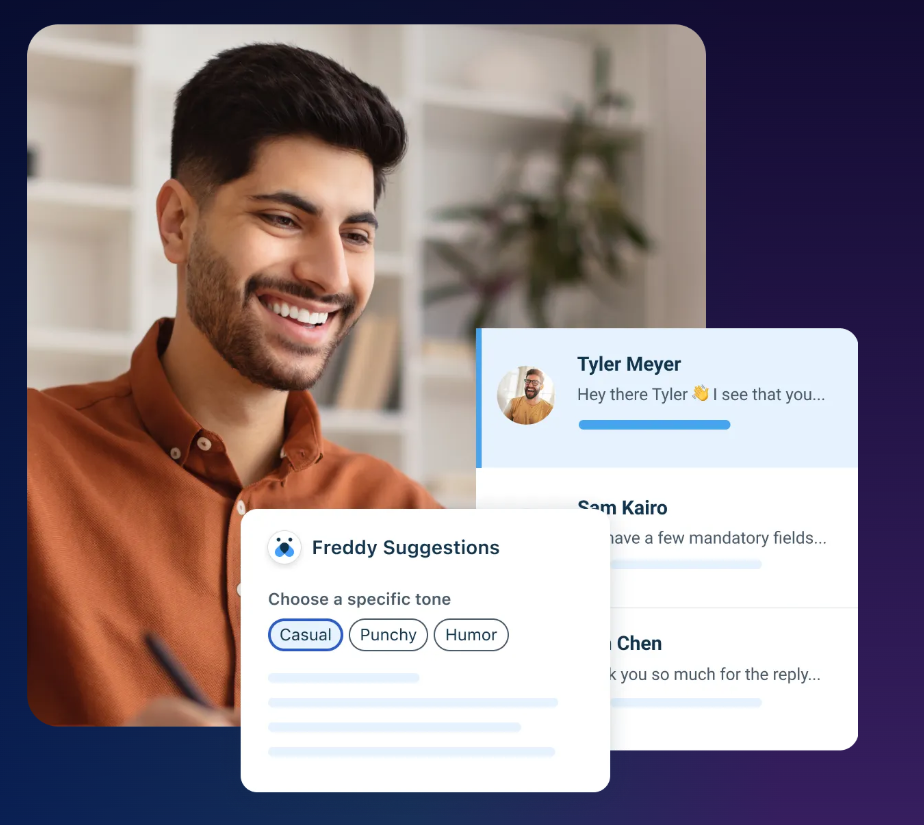
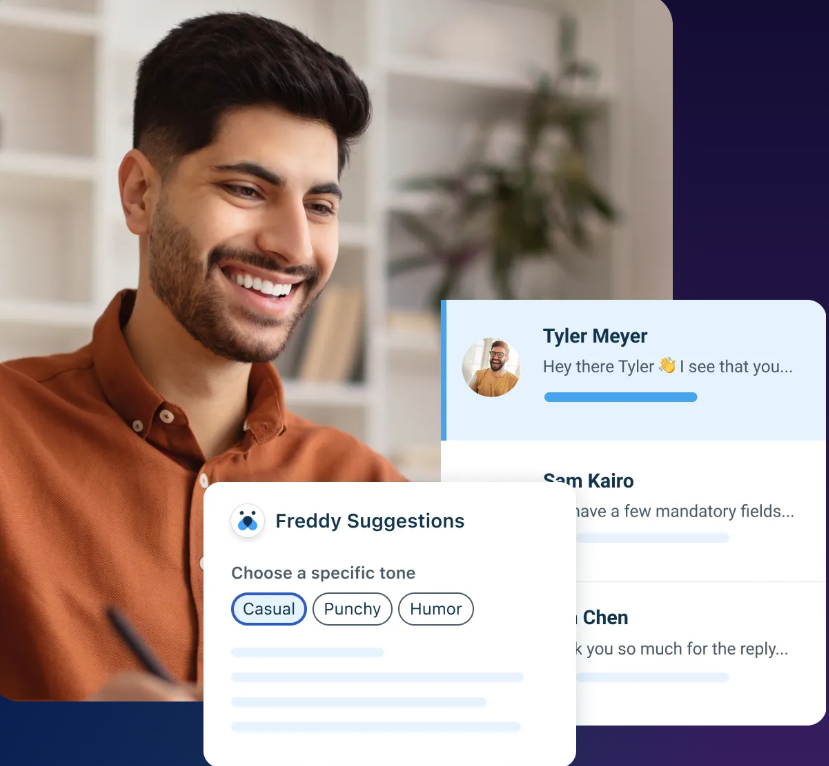
freshworks-recreate

diff --git a/styles/index.css b/styles/index.css
@@ -64,10 +64,12 @@ header {
     border: 2px solid ;
 }
 
-
+.bg-color{
+  background: linear-gradient(135deg, #0f0c29 0%, #302b63 40%, #24243e 70%, #ff5fa2 100%);
+}
 
 .content {
-    background: linear-gradient(135deg, #0f0c29 0%, #302b63 40%, #24243e 70%, #ff5fa2 100%);
+
 
     width: 100%;
     min-height: 700px;
@@ -126,10 +128,11 @@ header {
 .content img {
     max-width: 470px;
     height: auto;
+    margin-right: 10px;
 }
 
 .second-content {
-    background-color: #302b63;
+    
     text-align: center;
     padding: 0px 20px 40px 20px;
     color: white;
@@ -166,12 +169,22 @@ margin-top: 2%;
 .third-content section button {
     padding: 7px 15px;
     margin-right: 2%;
-    border-radius: 5px;
-    border: 2px solid black;
     background-color: white;
     color: black;
     font-weight: bold;
+    border-radius: 5px;
     margin-top: 2%;
+    border-image: linear-gradient(
+        45deg,
+        red,
+        orange,
+        yellow,
+        green,
+        blue,
+        indigo,
+        violet
+      ) 5;
+
 }
 
 .third-content section img{
@@ -199,6 +212,21 @@ margin-top: 2%;
   
   .right-solutions {
     max-width: 600px;
+  }
+  .solution-card:hover{
+     cursor: pointer;   
+    border: 3px solid transparent; /* Important for border-image to work */
+    border-image: linear-gradient(
+        45deg,
+        red,
+        orange,
+        yellow,
+        green,
+        blue,
+        indigo,
+        violet
+    ) 1;
+
   }
   
   .right-solutions h5 {
@@ -229,8 +257,13 @@ margin-top: 2%;
   .solution-card h3 {
     font-size: 18px;
     display: flex;
-    justify-content: space-between;
     align-items: center;
+  }
+
+  .solution-card i{
+    font-size: 12px;
+    margin-left: 2%;
+    margin-top: 2px;
   }
   
   .solution-card span {
@@ -313,7 +346,7 @@ margin-top: 2%;
     display: flex;
     justify-content: center;
     align-items: center;
-    margin-top: 30px;
+    padding-top: 20px;
     gap: 10px;
   }
   
@@ -350,6 +383,7 @@ margin-top: 2%;
     font-family: sans-serif;
     display: flex;
     flex-direction: row;
+    
   }
   
   .left-content {
@@ -380,6 +414,7 @@ margin-top: 2%;
     gap: 20px;
     overflow-x: auto;
     padding-bottom: 10px;
+    
   }
   
   .card {
@@ -387,11 +422,12 @@ margin-top: 2%;
     border-radius: 20px;
     padding: 20px;
     width: 500px;
+
     
   }
   
   .card-img {
-    width: 110%;
+    width: 100%;
     border-radius: 12px;
     margin-bottom: 20px;
   }
@@ -447,6 +483,20 @@ margin-top: 2%;
     width: 100%;
     height: 200px;
     margin-bottom: 5%;
+    border-bottom: 5px solid;
+        
+     
+    border-image: linear-gradient(
+        45deg,
+        red,
+        orange,
+        yellow,
+        green,
+        blue,
+        indigo,
+        violet
+    ) 1;
+
   }
 
   .last-ad h5{
@@ -495,6 +545,7 @@ margin-top: 2%;
     border-bottom: 1px solid #eee;
     padding-bottom: 10px;
     margin-bottom: 30px;
+    font-size: 13px;
   }
   
   .footer-contact a {
@@ -555,6 +606,11 @@ margin-top: 2%;
       padding: 40px 20px;
       text-align: center;
     }
+
+    
+    .content .first-content{
+      padding-top: 50px;
+    }
   
     .first-content h1 {
       font-size: 36px;
@@ -594,6 +650,7 @@ margin-top: 2%;
       height: auto;
       padding: 10px 20px;
     }
+
   
     .header-sec-1,
     .header-sec-2 {
@@ -642,7 +699,16 @@ margin-top: 2%;
   
   @media (max-width: 480px) {
     header{
-        display: none;
+        display: flex;
+        flex-direction: row;
+    }
+
+    .header-sec-1 a, .header-sec-2{
+      display: none;
+    }
+
+    .content{
+      padding-top: 95px;
     }
     .first-content h1 {
       font-size: 24px;
@@ -651,20 +717,23 @@ margin-top: 2%;
     .first-content p {
       font-size: 16px;
     }
-    .second-content-img{
-        display: none;
-    }
+.third-content img{
+  display: none;
+}
   
     .right-solutions h2 {
       font-size: 24px;
     }
   
     .trending-section {
+      
       padding: 20px 10px;
     }
   
-    .card h3 {
-      font-size: 16px;
+    .trending-section .news-cards {
+      display: flex;
+      flex-direction: column;
+    
     }
   
     .testimonial-text {
@@ -673,10 +742,11 @@ margin-top: 2%;
   
     .last-ad h5 {
       font-size: 24px;
+      margin: 1%;
     }
   
-    .last-ad p {
-      font-size: 16px;
+    .last-ad  {
+height: 250px;
     }
   
     .footer-contact {
@@ -685,6 +755,10 @@ margin-top: 2%;
   
     .header-sec-1 img {
       width: 120px;
+    }
+
+    .app-buttons{
+      display: none;
     }
   }
   

diff --git a/index.html b/index.html
@@ -33,7 +33,7 @@
             </section>
         </header>
 
-
+<section class="bg-color">
         <section class="content">
             <section class="first-content">
                 <h1>Software shouldn’t stand in the way of <span>exceptional service</span>  </h1>
@@ -46,7 +46,7 @@
             </section>
 
             <section>
-                <img src="./assests/images/content-img.png" alt="content-img" width="500px">
+                <img src="./assests/images/content-img-removebg-preview.png" alt="content-img" width="450px">
             </section>
         </section>
 
@@ -61,7 +61,7 @@
 
         </section>
 
-
+</section>
 
         <section class="third-content">
             <h1>Uncomplicated service software            </h1>
@@ -89,37 +89,37 @@
           
               <div class="solution-grid">
                 <div class="solution-card">
-                  <h3>Freshdesk ><span>&#8250;</span></h3>
+                  <h3>Freshdesk<i class="fa-solid fa-chevron-right"></i></h3>
                   <p>Scale faster with a unified, intelligent customer support platform.</p>
                 </div>
           
                 <div class="solution-card">
-                  <h3>Freshservice ><span>&#8250;</span></h3>
+                  <h3>Freshservice<i class="fa-solid fa-chevron-right"></i></h3>
                   <p>Modernize IT service and operations with an intuitive, completely integrated IT.</p>
                 </div>
           
                 <div class="solution-card">
-                  <h3>Freshchat ><span>&#8250;</span></h3>
+                  <h3>Freshchat<i class="fa-solid fa-chevron-right"></i></h3>
                   <p>Have more meaningful conversations, across every channel, with every customer.</p>
                 </div>
           
                 <div class="solution-card">
-                  <h3>Freshdesk Omni ><span>&#8250;</span></h3>
+                  <h3>Freshdesk Omni<i class="fa-solid fa-chevron-right"></i></h3>
                   <p>Get the whole package with our all-in-one solution, boosted with generative AI.</p>
                 </div>
           
                 <div class="solution-card">
-                  <h3>Freshsales ><span>&#8250;</span></h3>
+                  <h3>Freshsales<i class="fa-solid fa-chevron-right"></i></h3>
                   <p>Sell smarter and faster while leaving time-consuming tasks to automation.</p>
                 </div>
           
                 <div class="solution-card">
-                  <h3>Freshmarketer ><span>&#8250;</span></h3>
+                  <h3>Freshmarketer<i class="fa-solid fa-chevron-right"></i></h3>
                   <p>Attract, engage, and nurture your customers through the engagement channels they love.</p>
                 </div>
           
                 <div class="solution-card full-width">
-                  <h3>All products and trials ><span>&#8250;</span></h3>
+                  <h3>All products and trials<i class="fa-solid fa-chevron-right"></i></h3>
                 </div>
               </div>
             </div>
@@ -145,12 +145,13 @@
             
           
             <div class="carousel-dots">
-                <span class="dot"></span>
-                <span class="dot"></span>
+              <i class="fa-solid fa-chevron-left"></i>
+
               <span class="dot"></span>
               <span class="dot"></span>
               <span class="dot active"></span>
               <span class="dot"></span>
+              <i class="fa-solid fa-chevron-right"></i>
 
             </div>
           </section>
@@ -196,6 +197,7 @@
           </section>
 
             <div class="carousel-dots">
+              <i class="fa-solid fa-chevron-left"></i>
               <span class="dot"></span>
               <span class="dot active"></span>
               <span class="dot"></span>
@@ -207,6 +209,7 @@
               <span class="dot"></span>
               <span class="dot"></span>
               <span class="dot"></span>
+              <i class="fa-solid fa-chevron-right"></i>
             </div>
         
           
